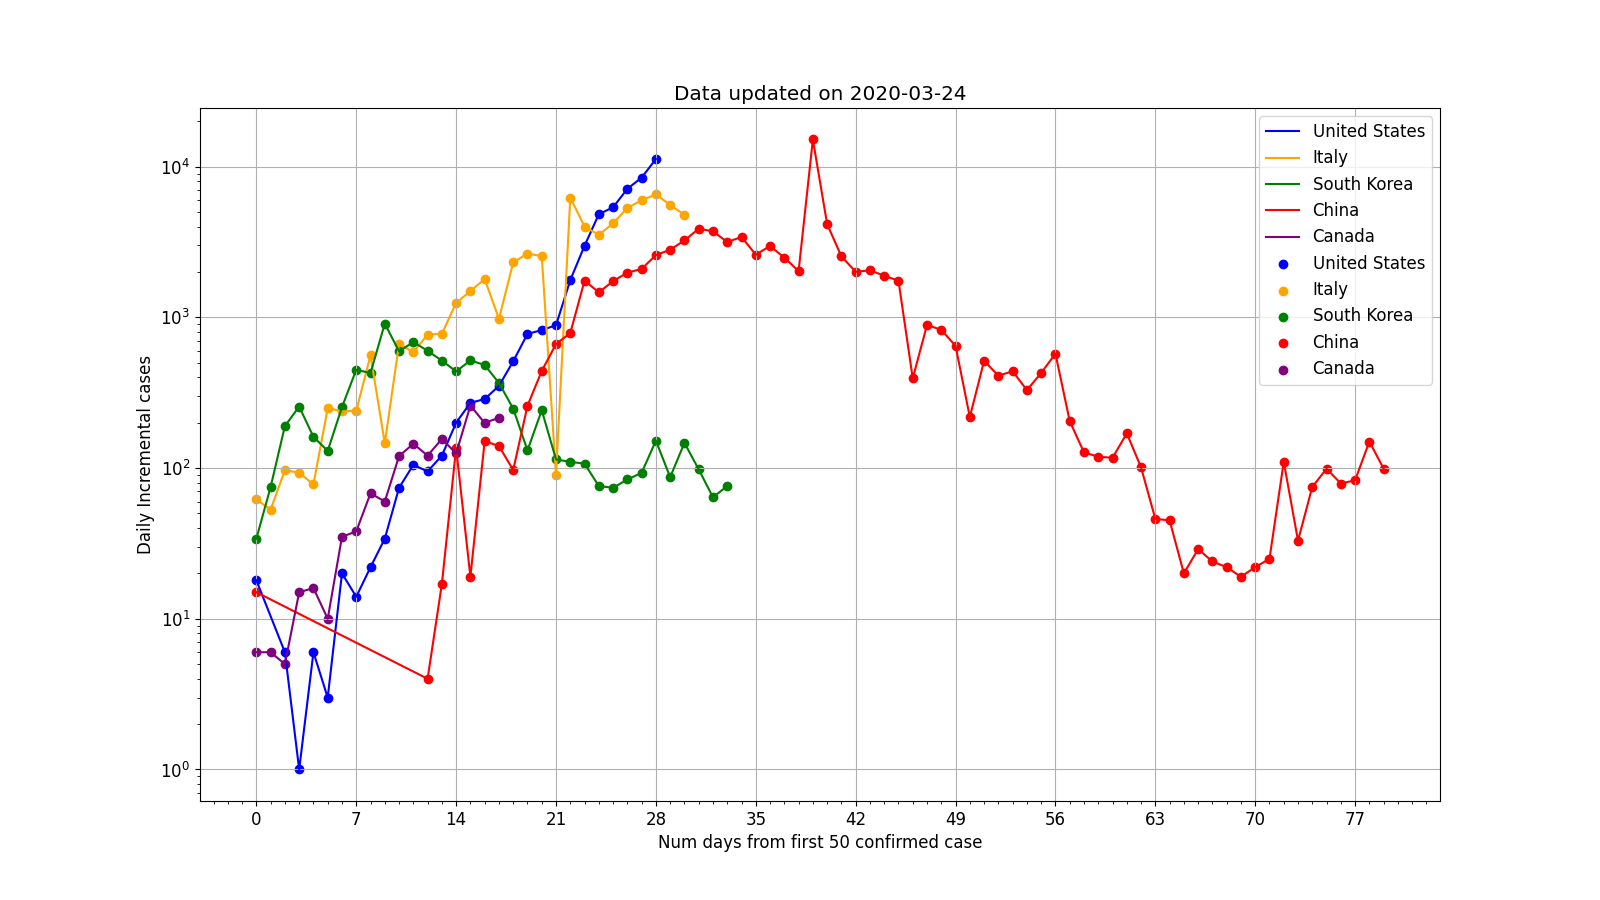
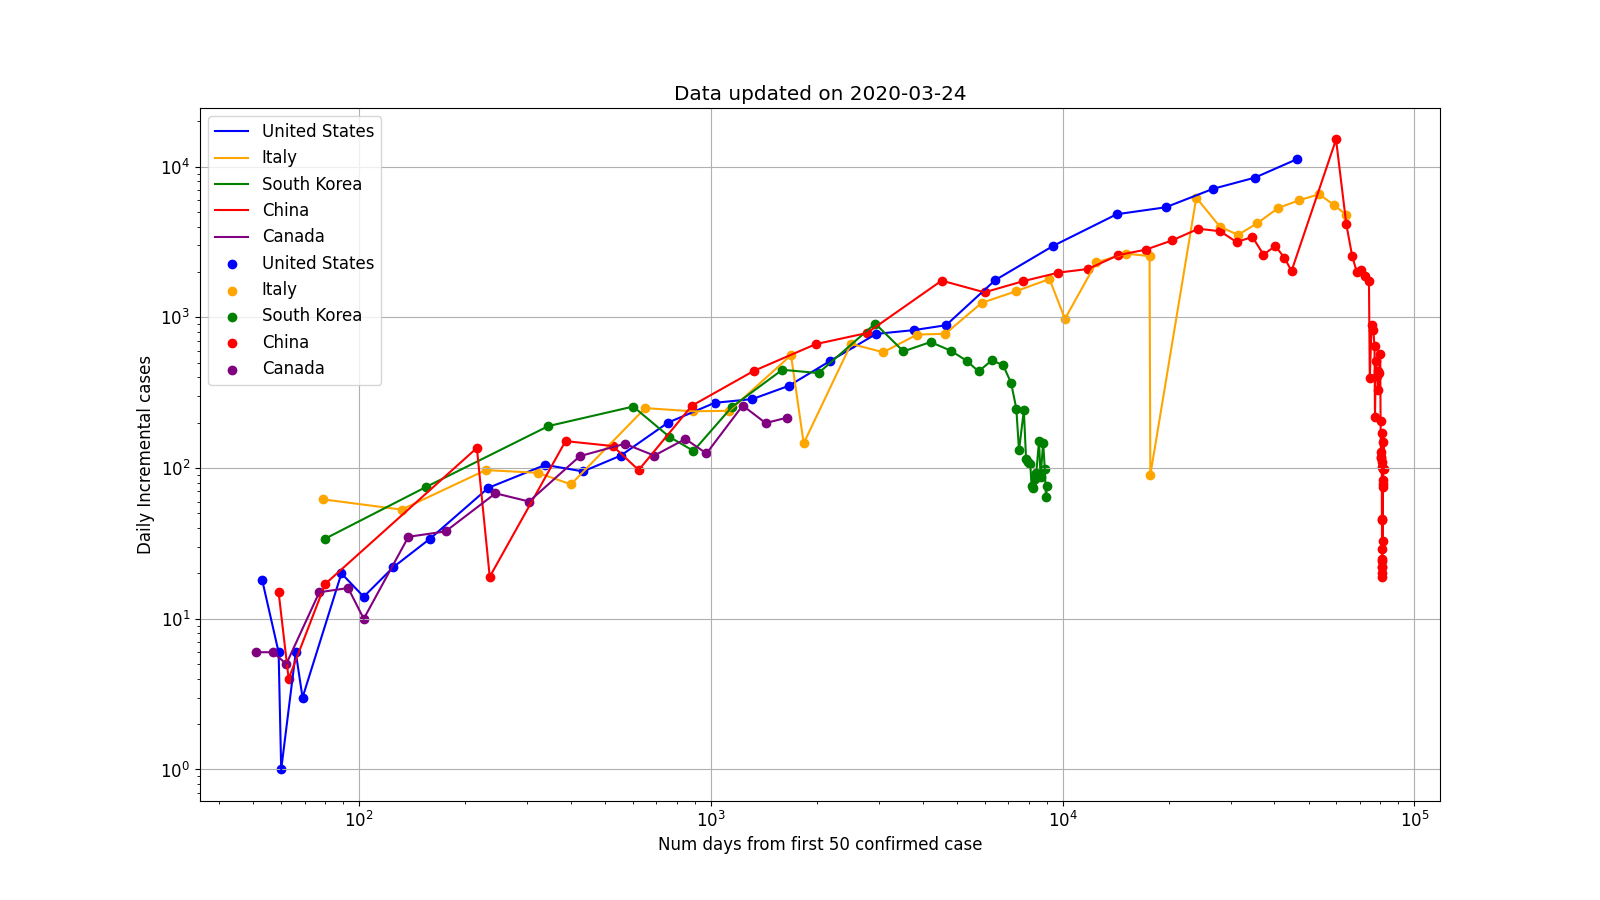
udpated plots

diff --git a/analysis.py b/analysis.py
@@ -169,22 +169,25 @@ class DataModel(object):
                          event[1], rotation=rotation,
                          color=color)
                 # plt.axvline(event[0], dashes=(5, 2, 1, 2), color=color)
+
+            ax = plt.axes()
+            ax.xaxis.set_major_locator(ticker.MultipleLocator(7))
+            ax.xaxis.set_minor_locator(ticker.MultipleLocator(1))
         else:
 
-            new_x = []
-            new_y = []
+            existing_cases = []
+            daily_incrementals = []
             for i, y in enumerate(plot_data.new_y):
                 if y != 0:
-                    new_x.append(plot_data.existing_x[i])
-                    new_y.append(y)
-            plt.plot(new_x, new_y,
+                    existing_cases.append(plot_data.existing_y[i])
+                    daily_incrementals.append(y)
+            plt.plot(existing_cases, daily_incrementals,
                      label=self.target_data.label, color=color)
-            plt.scatter(new_x, new_y,
+            plt.scatter(existing_cases, daily_incrementals,
                         label=self.target_data.label, color=color)
 
-        ax = plt.axes()
-        ax.xaxis.set_major_locator(ticker.MultipleLocator(7))
-        ax.xaxis.set_minor_locator(ticker.MultipleLocator(1))
+            plt.xscale('log')
+
 
     def plot_statistical_model(self):
         # plot fitted curve

diff --git a/plots.py b/plots.py
@@ -2,7 +2,6 @@ from typing import List
 
 import matplotlib
 from matplotlib import pyplot as plt
-import mpld3
 
 from analysis import DataModel, StatisticModel
 from data import FileData, CountryData
